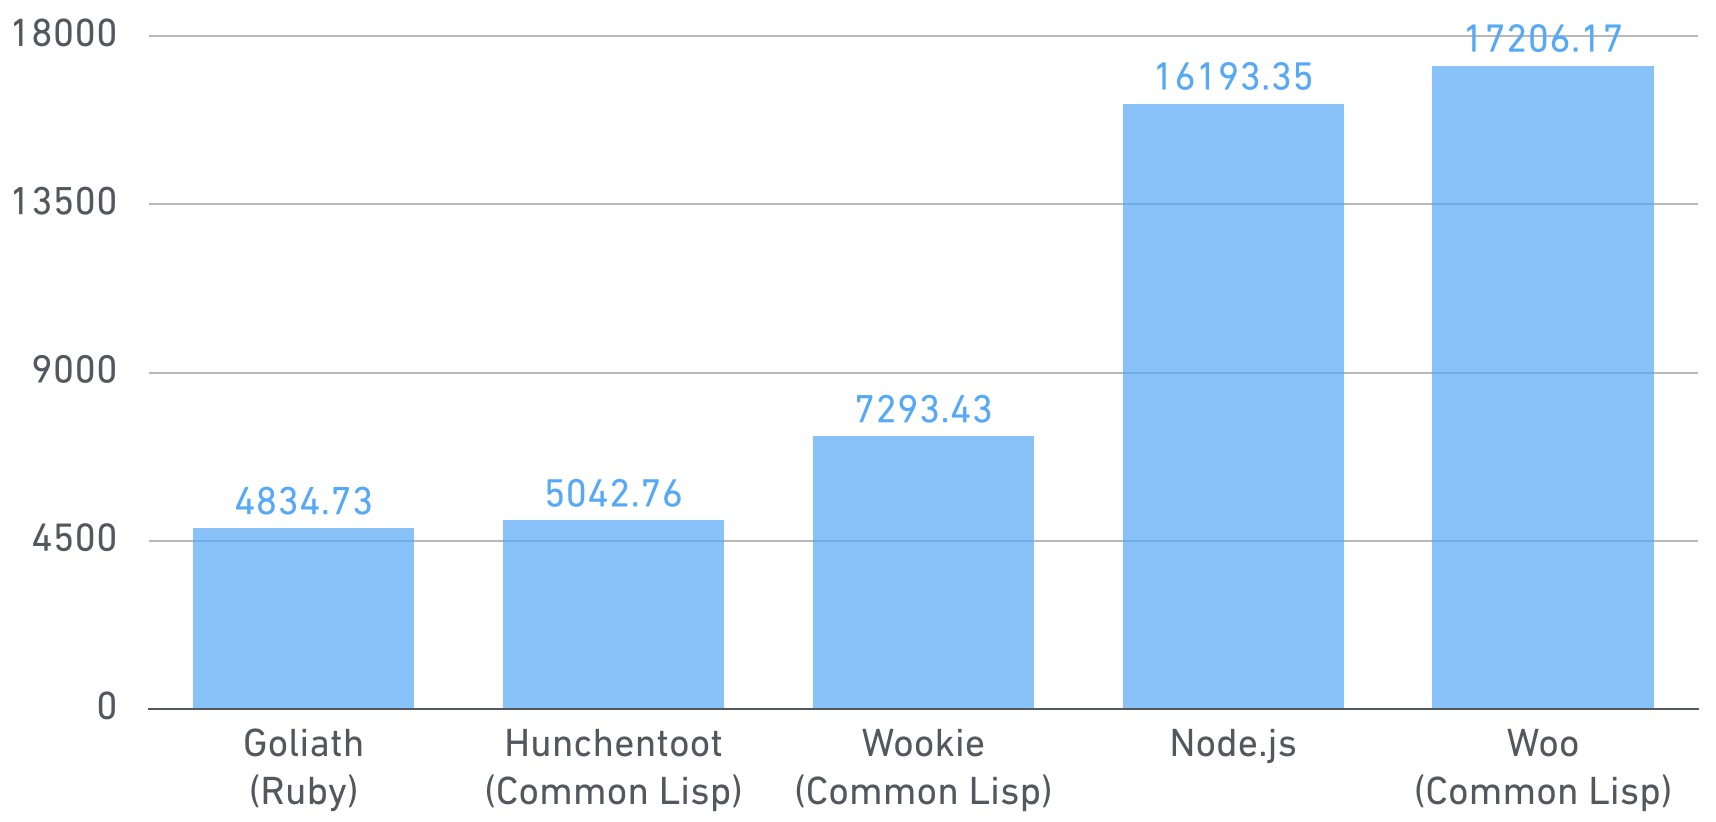
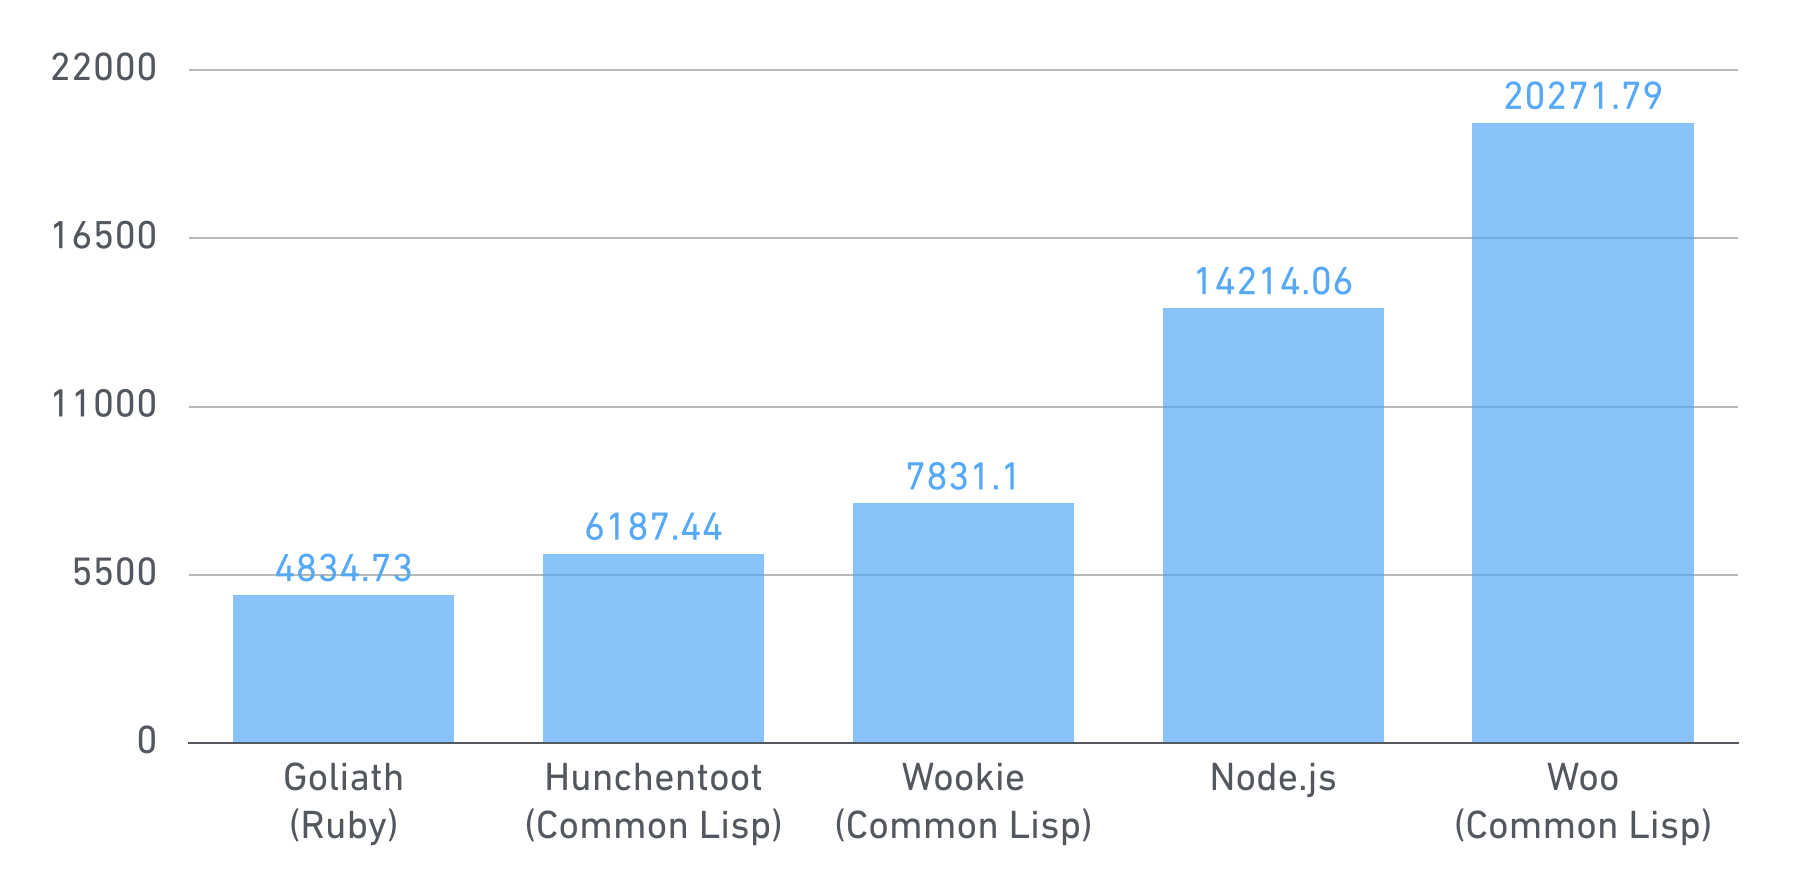
Update benchmarking result.

Changed region(s): [[0.0, 0.0304, 0.9883, 1.0], [0.0, 0.0, 0.0927, 0.0912]]

diff --git a/README.md b/README.md
@@ -84,15 +84,15 @@ $ sbcl --load benchmark/hunchentoot.lisp
 ```
 
 ```
-Running 5s test @ http://127.0.0.1:5000
+Running 10s test @ http://127.0.0.1:5000
   5 threads and 15 connections
   Thread Stats   Avg      Stdev     Max   +/- Stdev
-    Latency   150.77us   86.97us   3.83ms   99.61%
-    Req/Sec     6.57k   612.06     7.33k    65.92%
-  30260 requests in 6.00s, 4.53MB read
-  Socket errors: connect 0, read 0, write 0, timeout 35
-Requests/sec:   5042.76
-Transfer/sec:    773.16KB
+    Latency   145.61us  103.05us   6.53ms   99.78%
+    Req/Sec     6.71k   524.02     7.22k    95.05%
+  61941 requests in 10.01s, 9.27MB read
+  Socket errors: connect 0, read 0, write 0, timeout 66
+Requests/sec:   6187.44
+Transfer/sec:      0.93MB
 ```
 
 ### Wookie (Common Lisp)
@@ -119,14 +119,14 @@ $ node benchmark/node.js
 ```
 
 ```
-Running 5s test @ http://127.0.0.1:5000
+Running 10s test @ http://127.0.0.1:5000
   5 threads and 15 connections
   Thread Stats   Avg      Stdev     Max   +/- Stdev
-    Latency     0.94ms  198.93us   6.11ms   70.59%
-    Req/Sec     3.42k   588.23     4.89k    71.14%
-  80950 requests in 5.00s, 10.04MB read
-Requests/sec:  16193.35
-Transfer/sec:      2.01MB
+    Latency     1.04ms   57.89us   4.14ms   91.61%
+    Req/Sec     2.99k   107.88     3.22k    74.88%
+  142136 requests in 10.00s, 17.62MB read
+Requests/sec:  14214.06
+Transfer/sec:      1.76MB
 ```
 
 ### Woo (Common Lisp)
@@ -136,14 +136,14 @@ $ sbcl --load benchmark/woo.lisp
 ```
 
 ```
-Running 10s test @ http://127.0.0.1:5000
+Running 10s test @ http://127.0.0.1:5001
   5 threads and 15 connections
   Thread Stats   Avg      Stdev     Max   +/- Stdev
-    Latency     0.87ms  416.97us   9.01ms   99.24%
-    Req/Sec     3.64k   383.08     4.22k    91.95%
-  172029 requests in 10.00s, 21.66MB read
-Requests/sec:  17206.17
-Transfer/sec:      2.17MB
+    Latency   725.71us  205.02us   5.94ms   94.79%
+    Req/Sec     4.32k   341.43     4.89k    73.64%
+  202708 requests in 10.00s, 25.52MB read
+Requests/sec:  20271.79
+Transfer/sec:      2.55MB
 ```
 
 ## Installation
